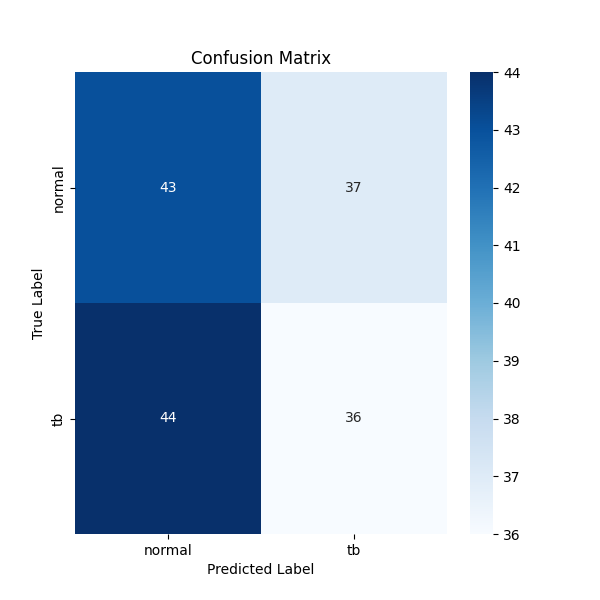
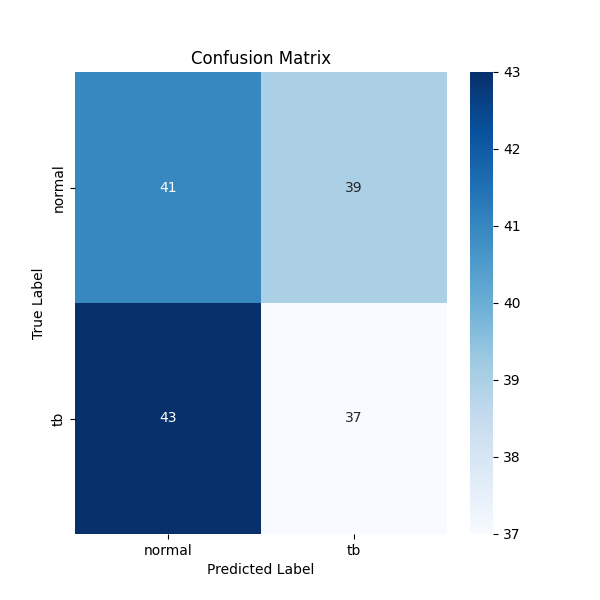
added csv outputs

diff --git a/result.py b/result.py
@@ -144,7 +144,13 @@ def main():
 
     # Generate visualizations and reports
     plot_training_history(history)
-    report = generate_classification_report(model, val_gen)
+
+    # Convert the continuous probabilities to binary labels
+    val_pred_probs = model.predict(val_gen)
+    val_pred_labels = (val_pred_probs > 0.5).astype(int)  # For binary classification
+
+    # Generate classification report
+    report_data = classification_report(val_gen.classes, val_pred_labels, output_dict=True)
 
     # Print dataset and model info
     print("\n=== Dataset Information ===")
@@ -155,7 +161,7 @@ def main():
         print(f"  {cls}: {np.sum(train_gen.classes == idx)} samples")
 
     print("\n=== Classification Report ===")
-    print(report)
+    print(report_data)
 
     print("\n=== Final Metrics ===")
     print(f"Validation Accuracy: {history.history['val_accuracy'][-1]:.2f}")
@@ -175,19 +181,19 @@ def main():
     metrics_df = pd.DataFrame([final_metrics])
     class_distribution_df = pd.DataFrame(list(class_distribution.items()), columns=["Class", "Samples"])
 
-    # Save results to CSV
-    metrics_df.to_csv('training_metrics_report.csv', index=False)
-    class_distribution_df.to_csv('class_distribution_report.csv', index=False)
+    # Ensure the 'report' folder exists
+    os.makedirs('reports', exist_ok=True)
 
-    # Optionally save the classification report to CSV (convert it to a DataFrame)
-    report_data = classification_report(val_gen.classes, model.predict(val_gen), output_dict=True)
+    # Save results to CSV inside the 'report' folder
+    metrics_df.to_csv('reports/training_metrics_report.csv', index=False)
+    class_distribution_df.to_csv('reports/class_distribution_report.csv', index=False)
+
+    # Save classification report to CSV inside the 'report' folder
     report_df = pd.DataFrame(report_data).transpose()
-    report_df.to_csv('classification_report.csv', index=True)
+    report_df.to_csv('reports/classification_report.csv', index=True)
 
-    print("\n=== Reports saved to CSV files ===")
+    print("\n=== Reports saved to CSV files inside the 'reports' folder ===")
 
 
 if __name__ == "__main__":
-    os.makedirs('reports', exist_ok=True)
-    os.makedirs('visualizations', exist_ok=True)
     main()
